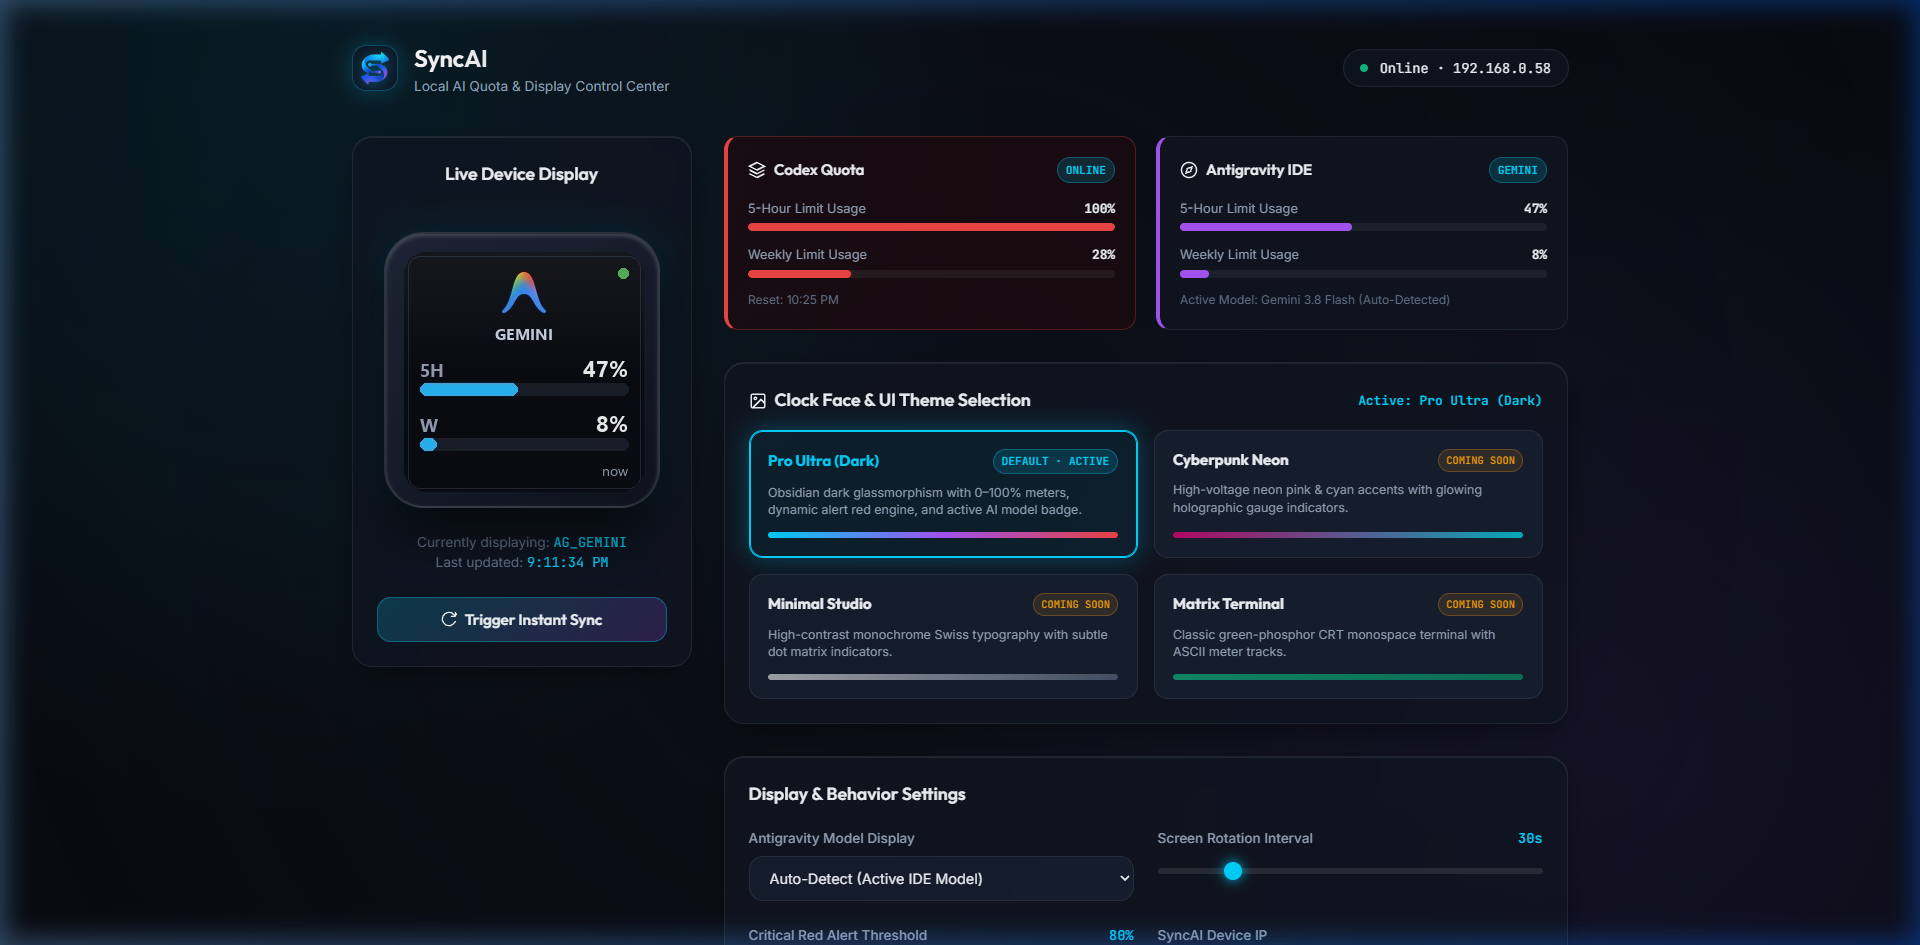
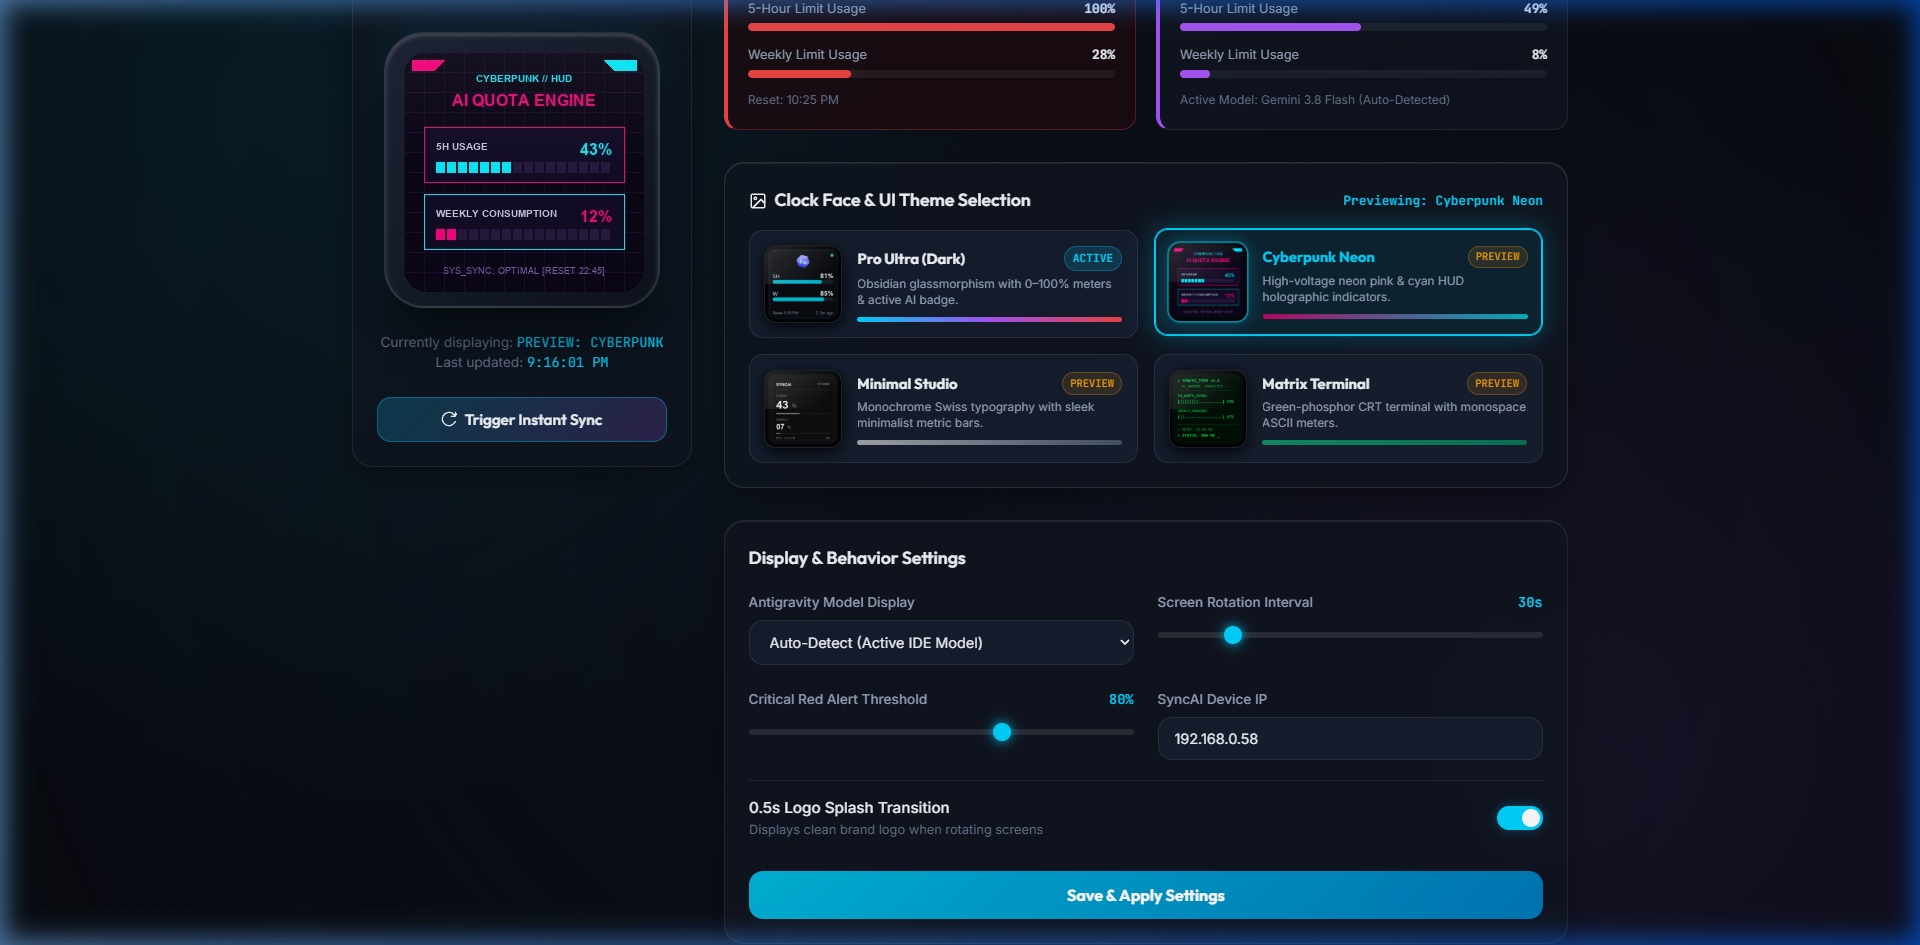
Add visual LCD display screen previews for all Clock Face & UI Themes in dashboard

diff --git a/web/index.html b/web/index.html
@@ -427,25 +427,83 @@
       background: var(--bg-surface-elevated);
       border: 1px solid var(--border-subtle);
       border-radius: var(--radius-md);
-      padding: 1.15rem;
+      padding: 0.9rem;
       cursor: pointer;
       position: relative;
-      transition: all 0.25s ease;
+      transition: all 0.25s cubic-bezier(0.16, 1, 0.3, 1);
       display: flex;
-      flex-direction: column;
-      gap: 0.6rem;
+      flex-direction: row;
+      align-items: center;
+      gap: 0.95rem;
     }
 
     .theme-card:hover {
-      border-color: rgba(255, 255, 255, 0.2);
+      border-color: rgba(255, 255, 255, 0.25);
       transform: translateY(-2px);
-      box-shadow: 0 8px 25px rgba(0, 0, 0, 0.5);
+      box-shadow: 0 10px 30px rgba(0, 0, 0, 0.6);
     }
 
     .theme-card.active {
       border-color: var(--cyan);
-      background: rgba(0, 212, 255, 0.06);
+      background: rgba(0, 212, 255, 0.08);
       box-shadow: 0 0 25px var(--cyan-glow), inset 0 0 0 1px var(--cyan);
+    }
+
+    .theme-mini-bezel {
+      width: 78px;
+      height: 78px;
+      flex-shrink: 0;
+      background: #020408;
+      border-radius: 12px;
+      padding: 3px;
+      border: 1.5px solid rgba(255, 255, 255, 0.12);
+      box-shadow: 0 4px 15px rgba(0, 0, 0, 0.8), inset 0 0 8px rgba(0, 0, 0, 0.9);
+      position: relative;
+      overflow: hidden;
+      display: flex;
+      align-items: center;
+      justify-content: center;
+      transition: transform 0.3s ease, border-color 0.3s ease, box-shadow 0.3s ease;
+    }
+
+    .theme-card:hover .theme-mini-bezel {
+      transform: scale(1.05);
+      border-color: rgba(0, 212, 255, 0.5);
+      box-shadow: 0 0 15px var(--cyan-glow);
+    }
+
+    .theme-card.active .theme-mini-bezel {
+      border-color: var(--cyan);
+      box-shadow: 0 0 16px var(--cyan-glow);
+    }
+
+    .theme-mini-screen {
+      width: 100%;
+      height: 100%;
+      border-radius: 8px;
+      object-fit: cover;
+      display: block;
+      background: #000;
+    }
+
+    .theme-mini-glare {
+      position: absolute;
+      top: 0;
+      left: 0;
+      right: 0;
+      height: 50%;
+      background: linear-gradient(135deg, rgba(255, 255, 255, 0.15) 0%, transparent 80%);
+      pointer-events: none;
+      border-top-left-radius: 8px;
+      border-top-right-radius: 8px;
+    }
+
+    .theme-card-body {
+      display: flex;
+      flex-direction: column;
+      gap: 0.35rem;
+      flex: 1;
+      min-width: 0;
     }
 
     .theme-card-header {
@@ -458,8 +516,11 @@
     .theme-name {
       font-family: var(--font-display);
       font-weight: 700;
-      font-size: 0.95rem;
+      font-size: 0.92rem;
       color: var(--text-primary);
+      white-space: nowrap;
+      overflow: hidden;
+      text-overflow: ellipsis;
     }
 
     .theme-card.active .theme-name {
@@ -467,16 +528,19 @@
     }
 
     .theme-desc {
-      font-size: 0.78rem;
+      font-size: 0.74rem;
       color: var(--text-secondary);
-      line-height: 1.4;
-      flex: 1;
+      line-height: 1.35;
+      display: -webkit-box;
+      -webkit-line-clamp: 2;
+      -webkit-box-orient: vertical;
+      overflow: hidden;
     }
 
     .theme-swatch {
-      height: 6px;
+      height: 5px;
       border-radius: var(--radius-full);
-      margin-top: 0.25rem;
+      margin-top: 0.15rem;
     }
 
     .swatch-default {
@@ -821,42 +885,66 @@
           <div class="theme-grid">
             <!-- Theme 1: Default Pro Ultra -->
             <div class="theme-card active" id="theme-card-default" onclick="selectTheme('default')">
-              <div class="theme-card-header">
-                <span class="theme-name">Pro Ultra (Dark)</span>
-                <span class="badge-active">Default · Active</span>
+              <div class="theme-mini-bezel">
+                <img src="/assets/theme_preview_default.jpg" alt="Pro Ultra Theme" class="theme-mini-screen">
+                <div class="theme-mini-glare"></div>
               </div>
-              <p class="theme-desc">Obsidian dark glassmorphism with 0–100% meters, dynamic alert red engine, and active AI model badge.</p>
-              <div class="theme-swatch swatch-default"></div>
+              <div class="theme-card-body">
+                <div class="theme-card-header">
+                  <span class="theme-name">Pro Ultra (Dark)</span>
+                  <span class="badge-active">Active</span>
+                </div>
+                <p class="theme-desc">Obsidian glassmorphism with 0–100% meters & active AI badge.</p>
+                <div class="theme-swatch swatch-default"></div>
+              </div>
             </div>
 
             <!-- Theme 2: Cyberpunk Neon -->
             <div class="theme-card" id="theme-card-cyberpunk" onclick="selectTheme('cyberpunk')">
-              <div class="theme-card-header">
-                <span class="theme-name">Cyberpunk Neon</span>
-                <span class="badge-soon">Coming Soon</span>
+              <div class="theme-mini-bezel">
+                <img src="/assets/theme_preview_cyberpunk.jpg" alt="Cyberpunk Neon Theme" class="theme-mini-screen">
+                <div class="theme-mini-glare"></div>
               </div>
-              <p class="theme-desc">High-voltage neon pink & cyan accents with glowing holographic gauge indicators.</p>
-              <div class="theme-swatch swatch-cyberpunk"></div>
+              <div class="theme-card-body">
+                <div class="theme-card-header">
+                  <span class="theme-name">Cyberpunk Neon</span>
+                  <span class="badge-soon">Preview</span>
+                </div>
+                <p class="theme-desc">High-voltage neon pink & cyan HUD holographic indicators.</p>
+                <div class="theme-swatch swatch-cyberpunk"></div>
+              </div>
             </div>
 
             <!-- Theme 3: Minimal Studio -->
             <div class="theme-card" id="theme-card-minimal" onclick="selectTheme('minimal')">
-              <div class="theme-card-header">
-                <span class="theme-name">Minimal Studio</span>
-                <span class="badge-soon">Coming Soon</span>
+              <div class="theme-mini-bezel">
+                <img src="/assets/theme_preview_minimal.jpg" alt="Minimal Studio Theme" class="theme-mini-screen">
+                <div class="theme-mini-glare"></div>
               </div>
-              <p class="theme-desc">High-contrast monochrome Swiss typography with subtle dot matrix indicators.</p>
-              <div class="theme-swatch swatch-minimal"></div>
+              <div class="theme-card-body">
+                <div class="theme-card-header">
+                  <span class="theme-name">Minimal Studio</span>
+                  <span class="badge-soon">Preview</span>
+                </div>
+                <p class="theme-desc">Monochrome Swiss typography with sleek minimalist metric bars.</p>
+                <div class="theme-swatch swatch-minimal"></div>
+              </div>
             </div>
 
             <!-- Theme 4: Retro Terminal -->
             <div class="theme-card" id="theme-card-terminal" onclick="selectTheme('terminal')">
-              <div class="theme-card-header">
-                <span class="theme-name">Matrix Terminal</span>
-                <span class="badge-soon">Coming Soon</span>
+              <div class="theme-mini-bezel">
+                <img src="/assets/theme_preview_matrix.jpg" alt="Matrix Terminal Theme" class="theme-mini-screen">
+                <div class="theme-mini-glare"></div>
               </div>
-              <p class="theme-desc">Classic green-phosphor CRT monospace terminal with ASCII meter tracks.</p>
-              <div class="theme-swatch swatch-terminal"></div>
+              <div class="theme-card-body">
+                <div class="theme-card-header">
+                  <span class="theme-name">Matrix Terminal</span>
+                  <span class="badge-soon">Preview</span>
+                </div>
+                <p class="theme-desc">Green-phosphor CRT terminal with monospace ASCII meters.</p>
+                <div class="theme-swatch swatch-terminal"></div>
+              </div>
             </div>
           </div>
         </div>
@@ -953,6 +1041,13 @@
       setTimeout(() => toast.classList.remove('show'), 3200);
     }
 
+    const themePreviews = {
+      'default': null,
+      'cyberpunk': '/assets/theme_preview_cyberpunk.jpg',
+      'minimal': '/assets/theme_preview_minimal.jpg',
+      'terminal': '/assets/theme_preview_matrix.jpg'
+    };
+
     function selectTheme(themeId) {
       currentSelectedTheme = themeId;
       document.querySelectorAll('.theme-card').forEach(card => card.classList.remove('active'));
@@ -961,16 +1056,21 @@
 
       const labelMap = {
         'default': 'Active: Pro Ultra (Dark)',
-        'cyberpunk': 'Selected: Cyberpunk Neon (Coming Soon)',
-        'minimal': 'Selected: Minimal Studio (Coming Soon)',
-        'terminal': 'Selected: Matrix Terminal (Coming Soon)'
+        'cyberpunk': 'Previewing: Cyberpunk Neon',
+        'minimal': 'Previewing: Minimal Studio',
+        'terminal': 'Previewing: Matrix Terminal'
       };
       document.getElementById('current-theme-label').textContent = labelMap[themeId] || themeId;
 
-      if (themeId === 'default') {
-        showToast('Default Pro Ultra theme is active on device!');
+      const liveImg = document.getElementById('live-screen-img');
+      const screenLabel = document.getElementById('current-screen-name');
+      if (themePreviews[themeId]) {
+        liveImg.src = themePreviews[themeId];
+        screenLabel.textContent = 'PREVIEW: ' + themeId.toUpperCase();
+        showToast(`Display preview loaded: ${themeId.toUpperCase()}`);
       } else {
-        showToast(`Theme selected: ${themeId.toUpperCase()} (Coming in next UI update)`);
+        liveImg.src = '/api/preview?t=' + Date.now();
+        showToast('Switched to Live Device stream!');
       }
 
       // Automatically sync theme selection to config
@@ -987,13 +1087,13 @@
         if (!res.ok) return;
         const data = await res.json();
         
-        // Live Screen Image
-        const img = document.getElementById('live-screen-img');
-        img.src = '/api/preview?t=' + Date.now();
-        
-        // Current Page Name
-        const pageName = data.active_page || 'Syncing';
-        document.getElementById('current-screen-name').textContent = pageName.toUpperCase();
+        // Live Screen Image (only auto-refresh if on default live mode)
+        if (currentSelectedTheme === 'default') {
+          const img = document.getElementById('live-screen-img');
+          img.src = '/api/preview?t=' + Date.now();
+          const pageName = data.active_page || 'Syncing';
+          document.getElementById('current-screen-name').textContent = pageName.toUpperCase();
+        }
         document.getElementById('last-update-time').textContent = new Date().toLocaleTimeString();
 
         // Connection
